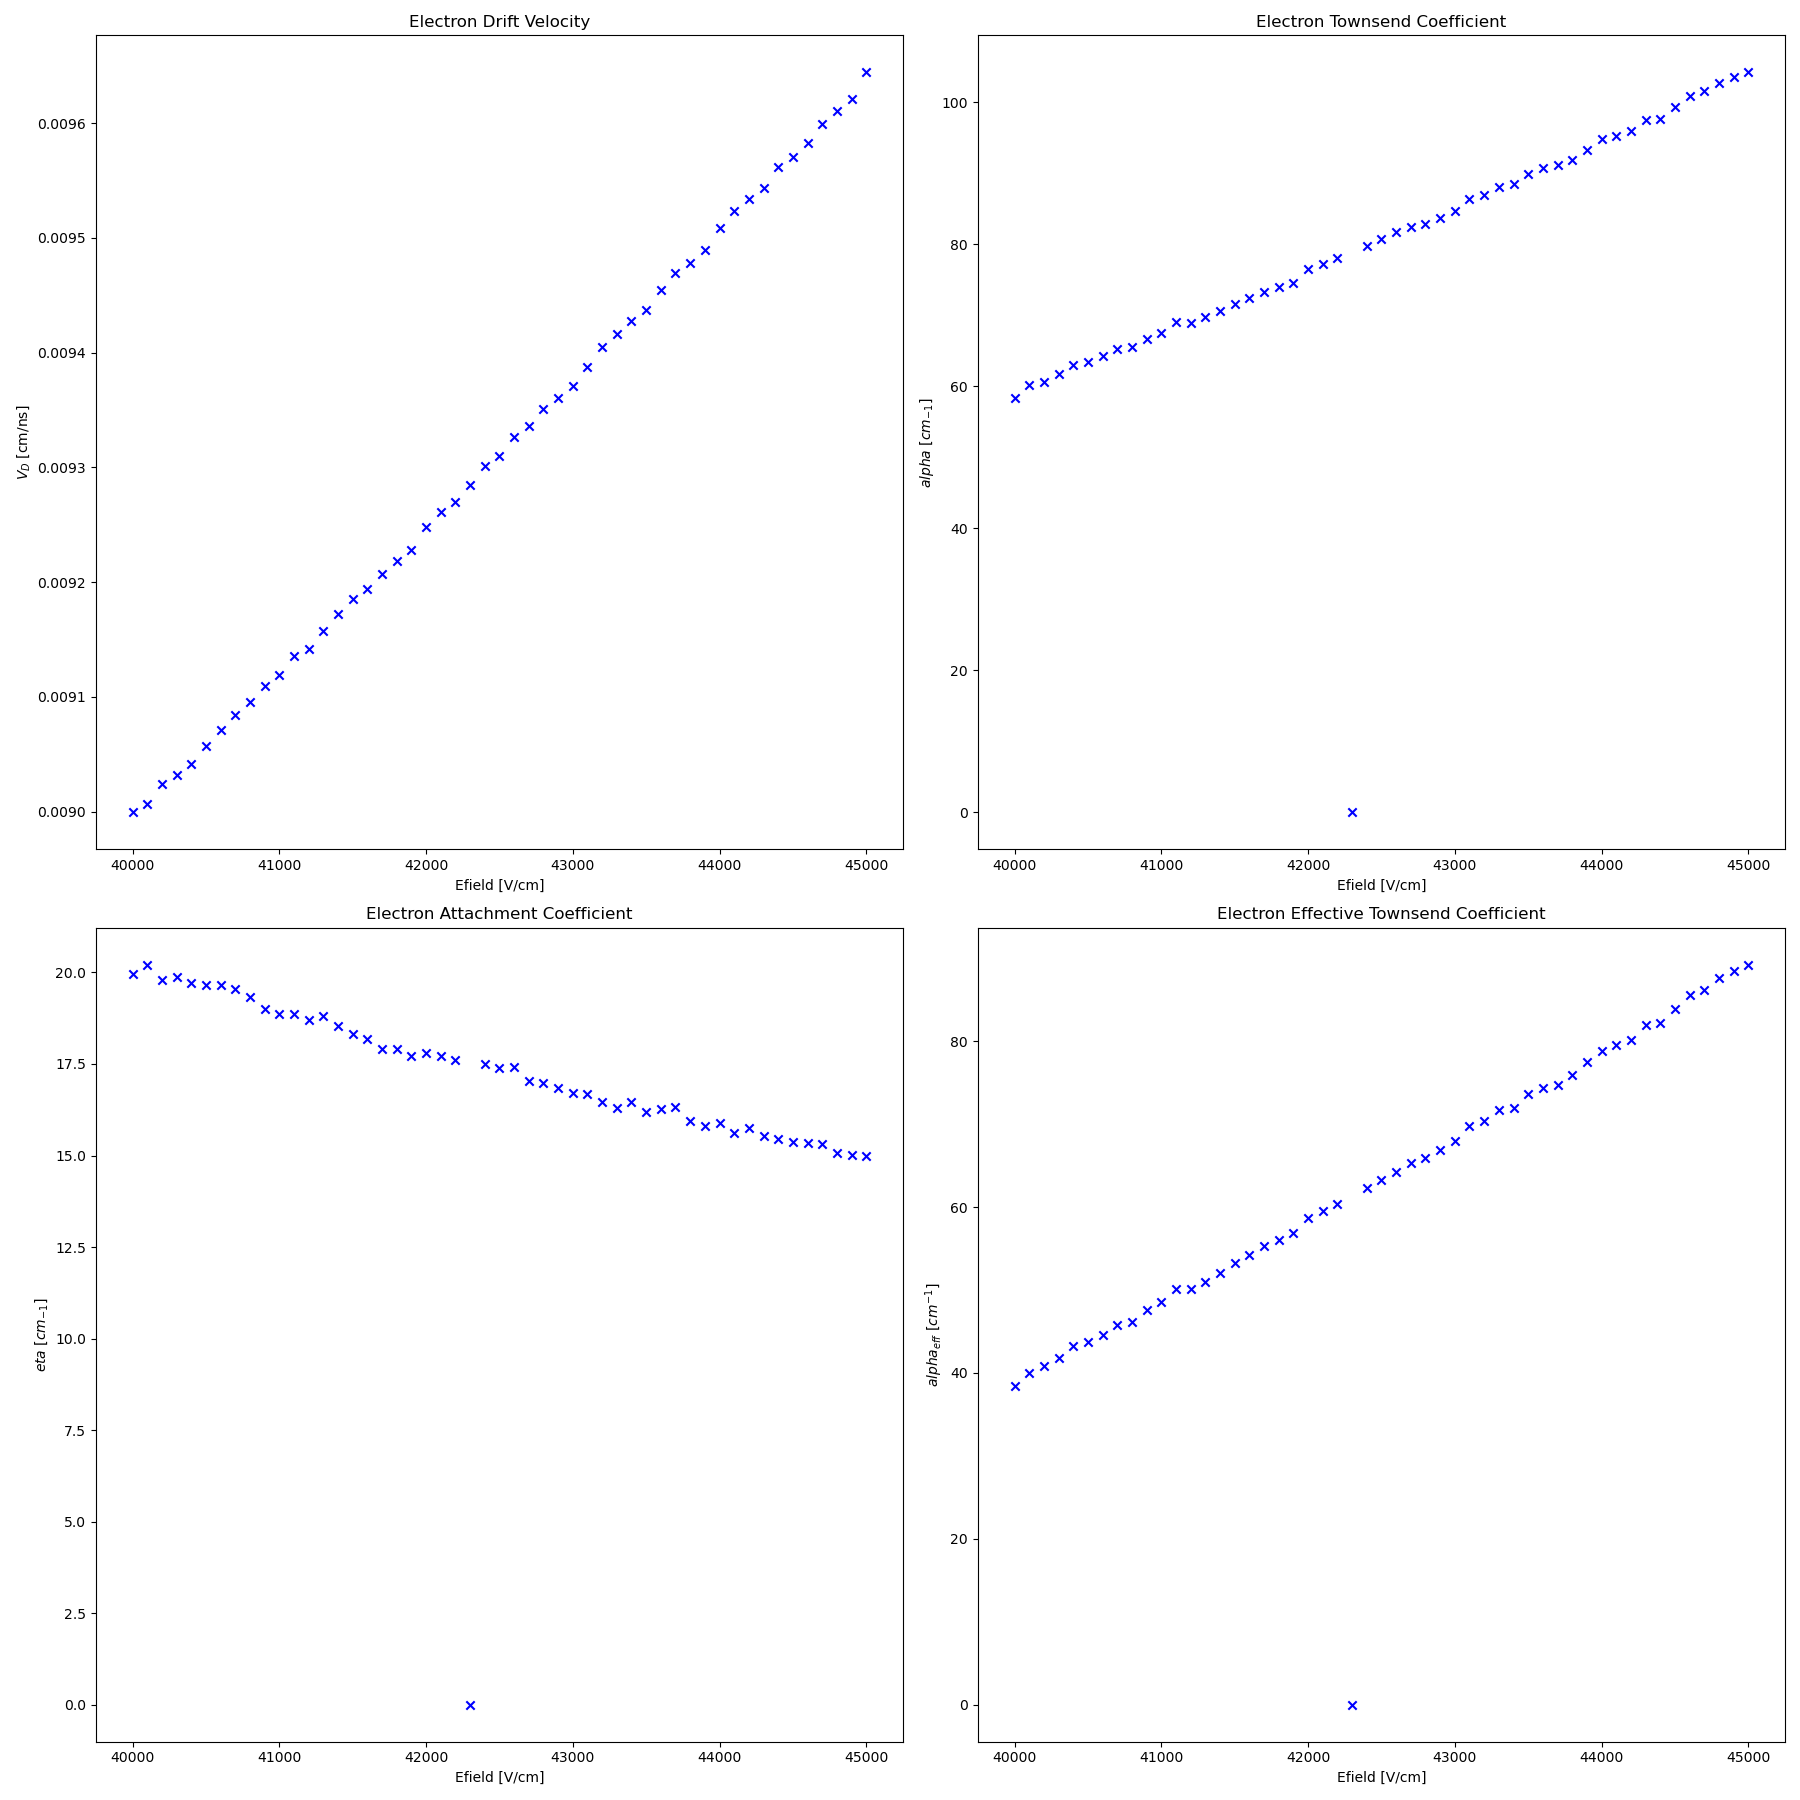
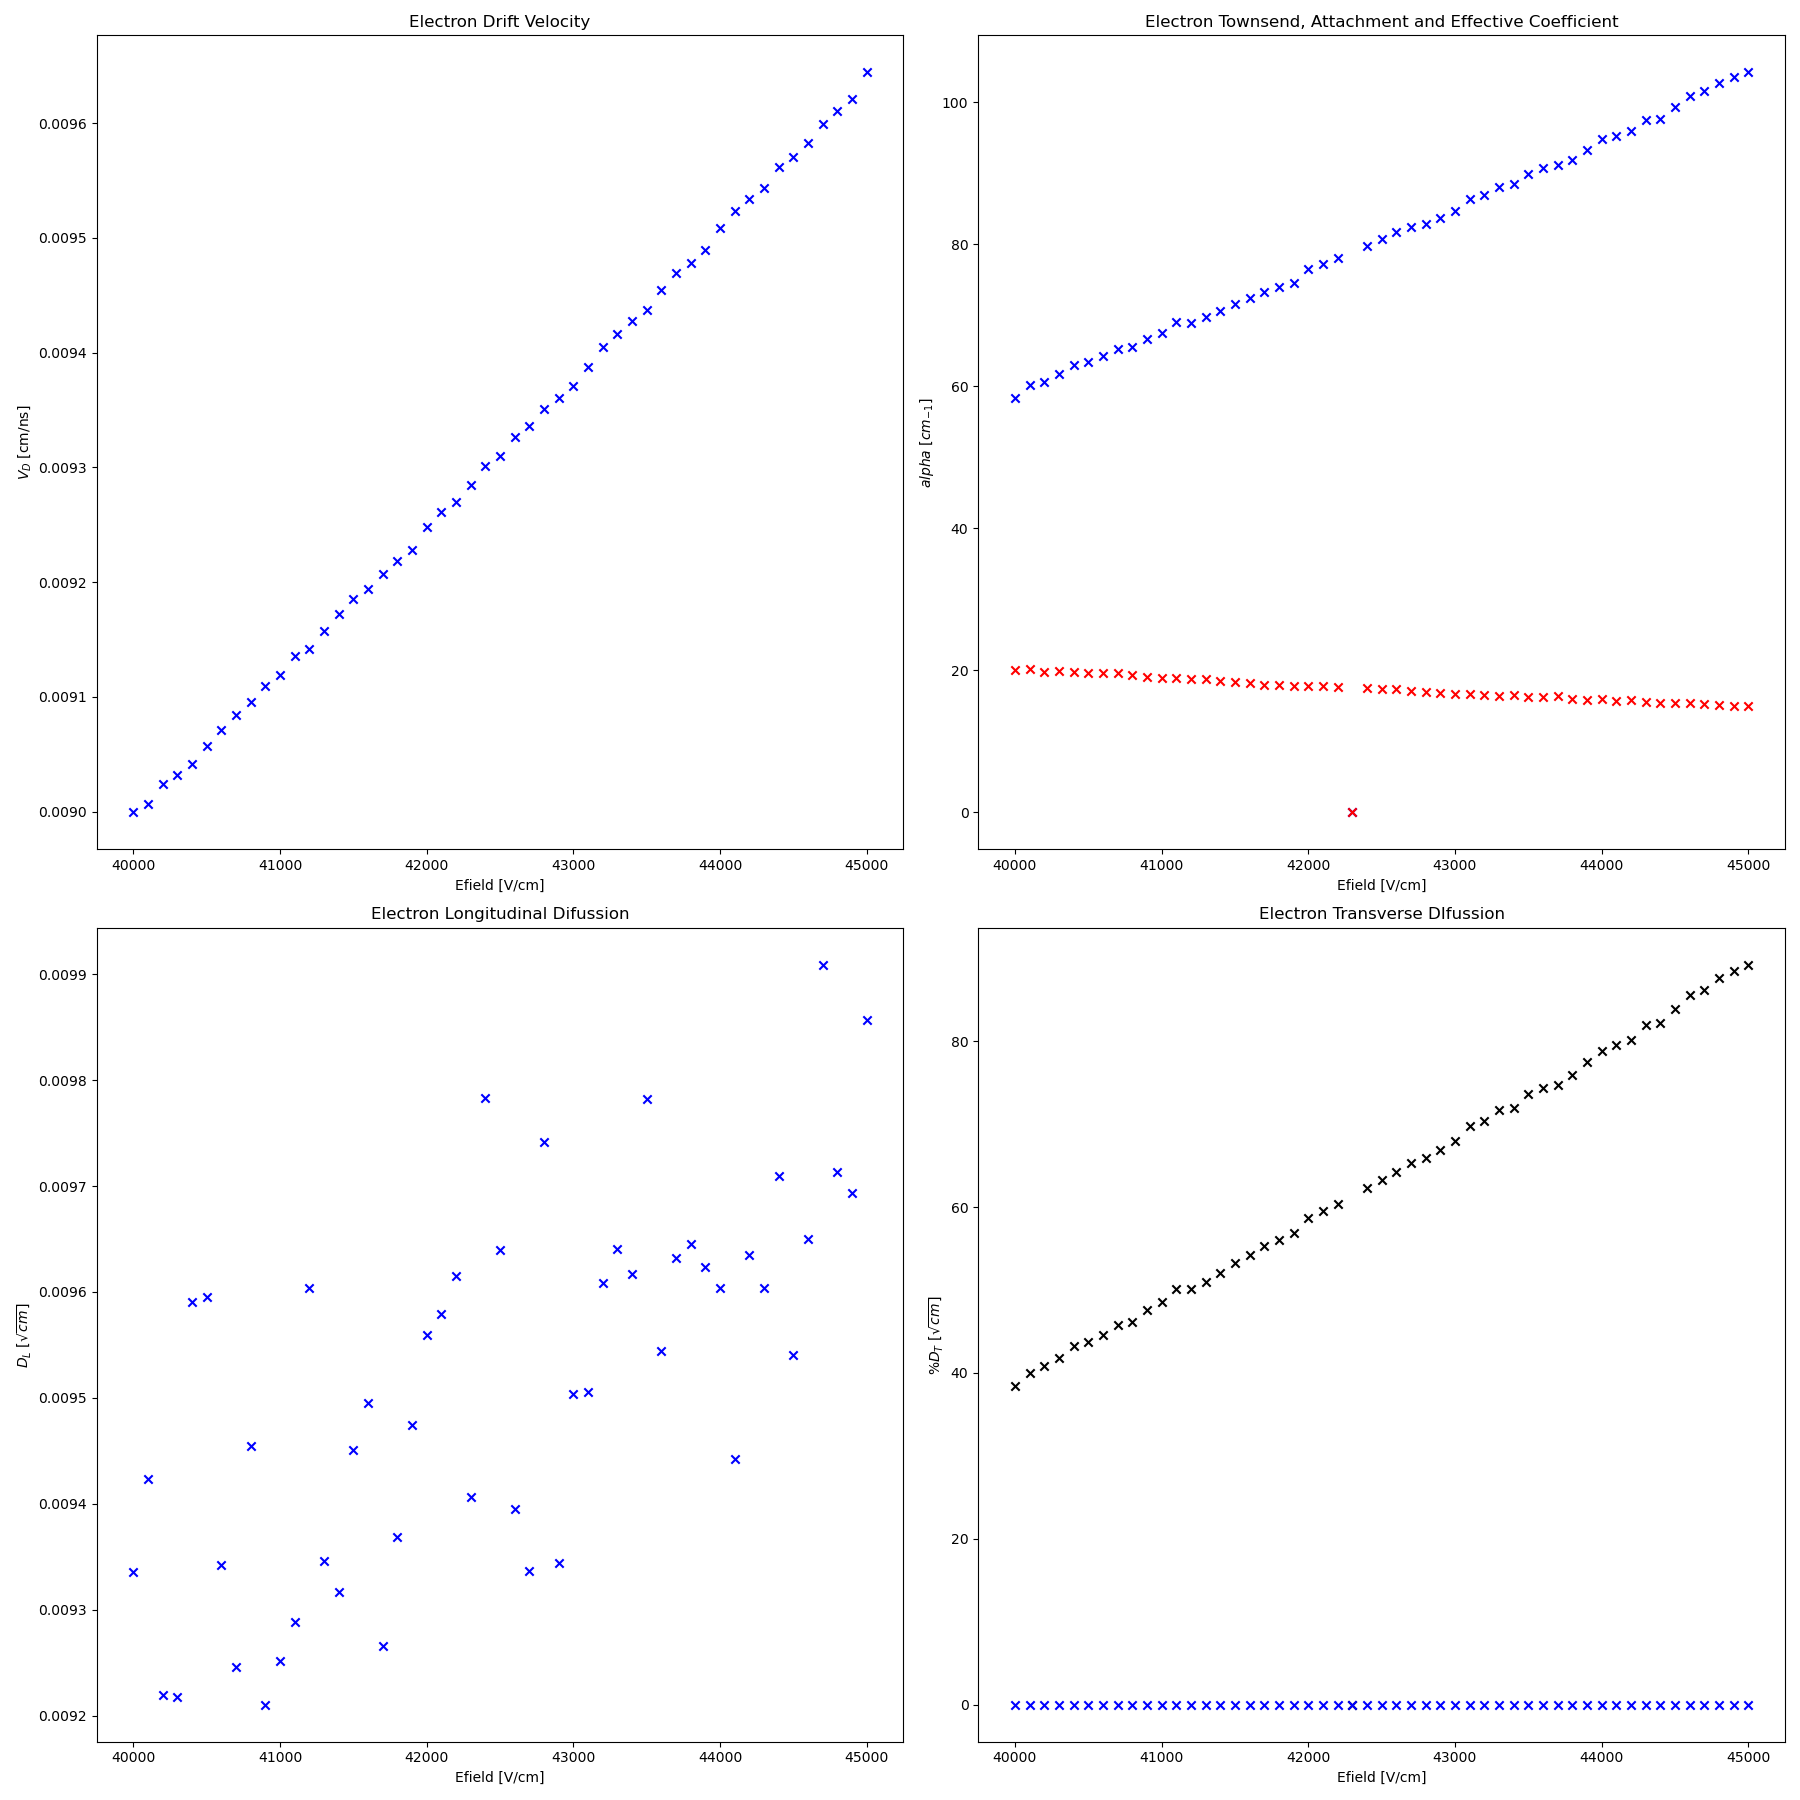
a

diff --git a/claude_workspace/Generator_GasFile/GenerateGasTable/gas_files/self.py b/claude_workspace/Generator_GasFile/GenerateGasTable/gas_files/self.py
@@ -15,8 +15,10 @@ V = []
 alpha = []
 eta = []
 eff_alpha = []
+DL, DT = [], []
 
 ib = ia = 0
+
 for ie in range(ef.size()):
     print(f"Grid Point: {ie}")
     e = gas.UnScaleElectricField(ef[ie])
@@ -25,36 +27,47 @@ for ie in range(ef.size()):
     e1 = ctypes.c_double(0.)
     v1 = ctypes.c_double(0.)
     v2 = ctypes.c_double(0.)
-
+    dl1 = ctypes.c_double(0.)
+    dt1 = ctypes.c_double(0.)
     if gas.GetElectronVelocityE(ie, ib, ia, v):
         print(f"field: {e}")
-        print(f"v-value: {v.value}")
+        print(f"raw-value: {v.value}")
         print(f"velocity: {gas.ScaleVelocity(v.value)}")
         V.append(gas.ScaleVelocity(v.value))
+    ok = gas.GetElectronTownsend(ie, ib, ia, a1)
+    print(f"ie={ie} ok={ok} raw={a1.value}")
     if gas.GetElectronTownsend(ie,ib,ia,a1):
-        print(f"v-value: {a1.value}")
+        print(f"raw-value: {a1.value-np.log(760)}")
         print(f"townsend: {gas.ScaleTownsend(np.exp(a1.value))}")
         alpha.append(np.exp(a1.value))
     if gas.GetElectronAttachment(ie,ib,ia,e1):
-        print(f"v-value: {e1.value}")
+        print(f"raw-value: {e1.value-np.log(760)}")
         print(f"attachment: {gas.ScaleAttachment(np.exp(e1.value))}")
         eta.append(np.exp(e1.value))
     if gas.GetElectronAttachment(ie,ib,ia,v1) and gas.GetElectronTownsend(ie,ib,ia,v2):
-        print(f"v-value: {v2.value,v1.value}") 
+        print(f"raw-value: {v2.value-np.log(760),v1.value-np.log(760)}") 
         print(f"effective townsend : {gas.ScaleTownsend(np.exp(v2.value))-gas.ScaleAttachment(np.exp(v1.value))}")
-        eff_alpha.append(gas.ScaleTownsend(np.exp(v2.value))-gas.ScaleAttachment(np.exp(v1.value)))
+        eff_alpha.append(gas.ScaleTownsend(np.exp(v2.value))-gas.ScaleAttachment(np.exp(v1.value)))    
+    if gas.GetElectronLongitudinalDiffusion(ie, ib, ia, dl1) and gas.GetElectronTransverseDiffusion(ie, ib, ia, dt1):
+            print(f"raw-value (re-multiplied by sqrt(760)): " f"{dl1.value * np.sqrt(760), dt1.value * np.sqrt(760)}")
+            print(f"longitudinal diffusion: {gas.ScaleDiffusion(dl1.value)}")
+            print(f"transverse diffusion:   {gas.ScaleDiffusion(dt1.value)}")
+            DL.append(gas.ScaleDiffusion(dl1.value))
+            DT.append(gas.ScaleDiffusion(dt1.value))
     print("\n")
 
 V1 = np.array(V)
 alpha1 = np.array(alpha)
 eta1 = np.array(eta)
 eff_alpha1 = np.array(eff_alpha)
+DL1 = np.array(DL)
+DT1 = np.array(DT)
 
 print(f"V: {V1}")
 print(f"alpha: {alpha1}")
 print(f"eta: {eta1}")
 print(f"eff_alpha: {eff_alpha1}")
-print(len(ef))
+print(f"length of ef: {len(ef)}")
 print(len(V1))
 print(len(alpha1))
 print(len(eta1))
@@ -69,20 +82,22 @@ ax[0,0].set_title("Electron Drift Velocity")
 ax[0,0].set_xlabel(r"Efield [V/cm]")
 ax[0,0].set_ylabel(r"$V_D$ [cm/ns]")
 
-ax[0,1].scatter(ef,alpha1,marker="x",color="blue")
-ax[0,1].set_title("Electron Townsend Coefficient")
+ax[0,1].scatter(ef,alpha1,marker="x",color="blue",label="Townsend")
+ax[0,1].scatter(ef,eta1,marker="x",color="red",label="Attachment")
+ax[1,1].scatter(ef,eff_alpha1,marker="x",color="black",label="Effective Townsend")
+ax[0,1].set_title("Electron Townsend, Attachment and Effective Coefficient")
 ax[0,1].set_xlabel(r"Efield [V/cm]")
 ax[0,1].set_ylabel(r"$alpha$ $[cm_{-1}]$")
 
-ax[1,0].scatter(ef,eta1,marker="x",color="blue")
-ax[1,0].set_title("Electron Attachment Coefficient")
+ax[1,0].scatter(ef,DL1,marker="x",color="blue")
+ax[1,0].set_title("Electron Longitudinal Difussion")
 ax[1,0].set_xlabel(r"Efield [V/cm]")
-ax[1,0].set_ylabel(r"$eta$ $[cm_{-1}]$")
+ax[1,0].set_ylabel(r"$D_L$ $[\sqrt{cm}]$")
 
-ax[1,1].scatter(ef,eff_alpha1,marker="x",color="blue")
-ax[1,1].set_title("Electron Effective Townsend Coefficient")
+ax[1,1].scatter(ef,DT1,marker="x",color="blue")
+ax[1,1].set_title("Electron Transverse DIfussion")
 ax[1,1].set_xlabel(r"Efield [V/cm]")
-ax[1,1].set_ylabel(r"$alpha_{eff}$ $[cm^{-1}]$")
+ax[1,1].set_ylabel(r"%$D_T$ $[\sqrt{cm}]$")
 
 fig.tight_layout()
 fig.savefig("transport coefficients.png")
